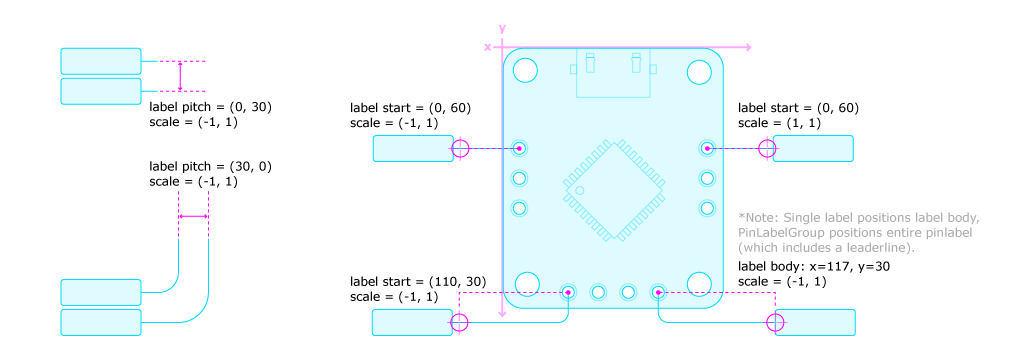
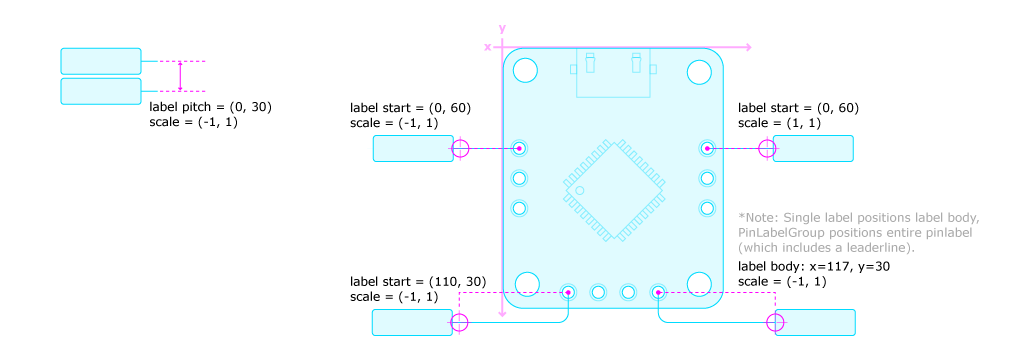
update docs

Changed region(s): [[0.0312, 0.7725, 0.1875, 0.9579], [0.125, 0.4326, 0.2812, 0.5253], [0.1562, 0.5871, 0.2188, 0.618]]

diff --git a/docs/pages/tutorial.rst b/docs/pages/tutorial.rst
@@ -3,7 +3,7 @@
 Tutorial
 ===============
 
-This tutorial walks through the main features available in *pinout*. If you have not installed *pinout* already please read the :ref:`install` section. This tutorial duplicates code from *pinout_diagram.py*. To access a copy of this file and other resources see :ref:`quickstart`.
+This tutorial walks through the main features available in *pinout*. If you have not installed *pinout* already please read the :ref:`install` section. This tutorial duplicates code from *pinout_diagram.py*. To access a copy of this file and other resources required to complete this tutorial see :ref:`quickstart`.
 
 .. figure:: /_static/quick_start_pinout_diagram.*
 
@@ -34,7 +34,8 @@ The Diagram class creates the main component to hold all the parts together that
     diagram = Diagram(1024, 576, "diagram")
 
     # Add a stylesheet
-    diagram.add_stylesheet("styles.css", True)
+    diagram.add_stylesheet("styles.css", embed=True)
+
 
 Design and layout
 -----------------
@@ -76,22 +77,50 @@ Components can also be grouped independently of a panel. This can aid with fine-
 
 Hardware image
 --------------
-An underlying image to apply pinout information to is obviously required. The width and height must be supplied (*pinout* does no auto detect this dimensions). It is recommended to use images at a **1:1 ratio** to simplify calculating component locations. Optionally 'x' and 'y' attributes can be supplied to position the top-left of the images to more suitable coordinates::
+An image that requires pinout information to is obviously required and included with the Image class. Width and height arguments are optional. If omitted, as they are here, the pixel dimensions are automatically detected and used. 'x' and 'y' attributes can also be supplied to position the top-left of the image to more suitable coordinates::
 
     # Add and embed an image
-    graphic.add(Image("hardware.png", width=220, height=260, embed=True))
+    hardware = graphic.add(Image("hardware.png", embed=True))
 
+Measuring up
+------------
+Key coordinates on the image need to be documented for components to align correctly. It is a good idea to undertake measuring as a distinct step and usually quicker than estimating with trial-and-error later on. Measurements are pixel dimensions from the top, left corner *(with an exception - see following note on 'pin pitch')* :
+
+.. figure:: /_static/quick_start_measurements_pins.*
+
+These coordinates could be used 'as is' later on but recording them with the Image class provides a clear association plus coordinates are transformed automatically to remain correctly positioned if the image's x, y, width, or height are adjusted::
+
+    # Measure and record key location with the hardware Image instance
+    hardware.add_coord("gpio0", 16, 100)
+    hardware.add_coord("gpio3", 65, 244)
+    hardware.add_coord("reset", 155, 244)
+    hardware.add_coord("vcc", 206, 100)
+    # Other (x,y) pairs can also be stored here
+    hardware.add_coord("pin_pitch_v", 0, 30)
+    hardware.add_coord("pin_pitch_h", 30, 0)
+
+.. note::
+    Arbitary (x,y) data can also be recorded with the image. The pin-header pitch has been recorded in this manner. Transformed values can then be automatically calculated if the image's width or height are altered.
+
+*pinout* provides great flexibility when positioning pin-labels. Key details to note:
+
+- 'x' and 'y' values are **relative** to hardware coordinates. 
+- label_pitch is an (x,y) offset between each pin-label in a PinLabelGroup
+- scale is used to 'flip' labels. Negative values may yield unexpected results
+- 'x' and 'y' positions the entire label or row component, *including a leaderline*. A pin-label's body can be positioned in addition to the component positioning.
+
+.. figure:: /_static/quick_start_measurements_labels.*
 
 Add a single pin-label
 ----------------------
-In some instances adding pins individually might be appropriate. This pin is being added to the 'graphic' group so its (x,y) coordinates are relative to that group's origin. Also demonstrated on this pin are some customisations of the pin-label's body and leaderline::
+In some instances adding pins individually might be appropriate. This pin is being added to the 'graphic' group - the same component that the image is in - and references coordinates filed with the image. Also demonstrated on this pin are some customisations of the pin-label's body and leaderline::
 
     # Create a single pin label
     graphic.add(
         PinLabel(
             content="RESET",
-            x=155,
-            y=244,
+            x=hardware.coord("reset").x,
+            y=hardware.coord("reset").y,
             tag="pwr",
             body={"x": 117, "y": 30},
             leaderline={"direction": "vh"},
@@ -100,7 +129,7 @@ In some instances adding pins individually might be appropriate. This pin is bei
 
 Add Multiple pin-labels 
 -----------------------
-Where pins are arranged in 'headers' (a line of evenly spaced pins) the PinLabelGroup class can be used to automate many of the geometry calculations required to place individual pin-labels. 
+Where pins are arranged in 'headers' (a line of evenly spaced pins) the PinLabelGroup class can be used to automate many of the geometry calculations required to place individual pin-labels.
 
 - **x, y**: Coordinates of the first pin in the header.
 - **pin_pitch**: Distance between each pin of the header. (0, 30) steps 0px right and 30px down for each pin. *TIP*: (30, 0) creates a horizontal header.
@@ -113,8 +142,8 @@ Where pins are arranged in 'headers' (a line of evenly spaced pins) the PinLabel
     # Create pinlabels on the right header
     graphic.add(
         PinLabelGroup(
-            x=206,
-            y=100,
+            x=hardware.coord("vcc").x,
+            y=hardware.coord("vcc").y,
             pin_pitch=(0, 30),
             label_start=(60, 0),
             label_pitch=(0, 0),
@@ -124,14 +153,17 @@ Where pins are arranged in 'headers' (a line of evenly spaced pins) the PinLabel
 
 Pin-label orientation
 ------------------------------
+
+.. figure:: /_static/quick_start_measurements_scale.*
+
 SVG format allows 'flipping' or 'mirroring' elements by scaling them with a negative value eg. `scale=(-1, 1)` flips a component around a vertical axis. _pinout_ makes use of this feature, a scale attribute can be supplied to components to flip their layout. This can take some getting use to but provides a concise method of control. The following pin-label groups are scaled to orient in the opposite direction.  
 ::
 
     # Create pinlabels on the left header
     graphic.add(
         PinLabelGroup(
-            x=16,
-            y=100,
+            x=hardware.coord("gpio0").x,
+            y=hardware.coord("gpio0").y,
             pin_pitch=(0, 30),
             label_start=(60, 0),
             label_pitch=(0, 0),
@@ -143,8 +175,8 @@ SVG format allows 'flipping' or 'mirroring' elements by scaling them with a nega
     # Create pinlabels on the lower header
     graphic.add(
         PinLabelGroup(
-            x=65,
-            y=244,
+            x=hardware.coord("gpio3").x,
+            y=hardware.coord("gpio3").y,
             scale=(-1, 1),
             pin_pitch=(30, 0),
             label_start=(110, 30),

diff --git a/docs/pages/install.rst b/docs/pages/install.rst
@@ -22,7 +22,12 @@ Quickstart
 
 .. image:: /_static/quick_start_pinout_diagram.*
 
-This guide makes use of a hardware image, stylesheet, data file, and a Python script. Sample files are included with the package and can be duplicated for your use. Open a command line (with enabled virtual environment if you are using one) in the location you plan to work and enter the following::
+This guide makes use of a hardware image, stylesheet, data file, and a Python script. Sample files are included with the package and can be duplicated for your use. Open a command line (with enabled virtual environment if you are using one) in the location you plan to work and enter the following
+
+.. note::
+    Depending on your operating system the command to invoke Python may differ. This guide uses Windows default method. Exchanging 'py' for 'python' or similar may be required for examples to work on other systems.
+
+::
 
     py -m pinout.manager --duplicate quick_start
 
@@ -38,8 +43,5 @@ Generating the final SVG graphic is done from the command line::
     py -m pinout.manager --export pinout_diagram diagram.svg
 
 If everything is correctly configured the newly created file 'diagram.svg' can be viewed in a browser and should look identical to the diagram pictured here.
-
-.. note::
-    Depending on your operating system the command to invoke Python may differ. This guide uses Windows default method. Exchanging 'py' for 'python' or similar may be required for examples to work on other systems.
 
 Once you have installed the *pinout* package explore its main features in the :ref:`tutorial`.
